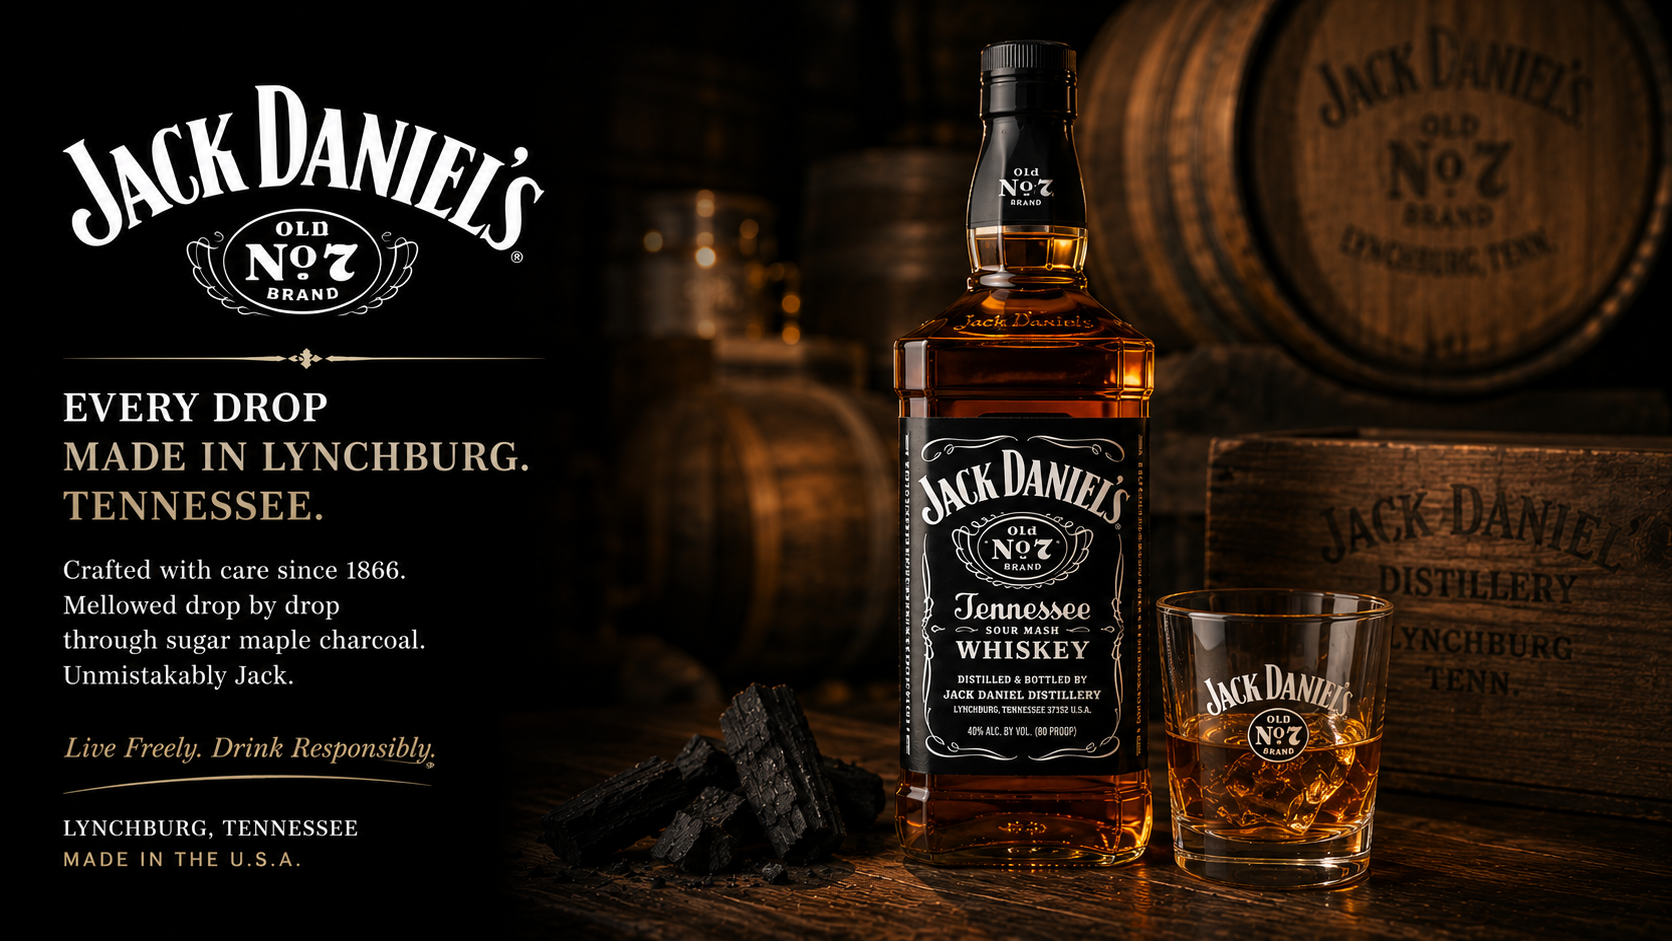
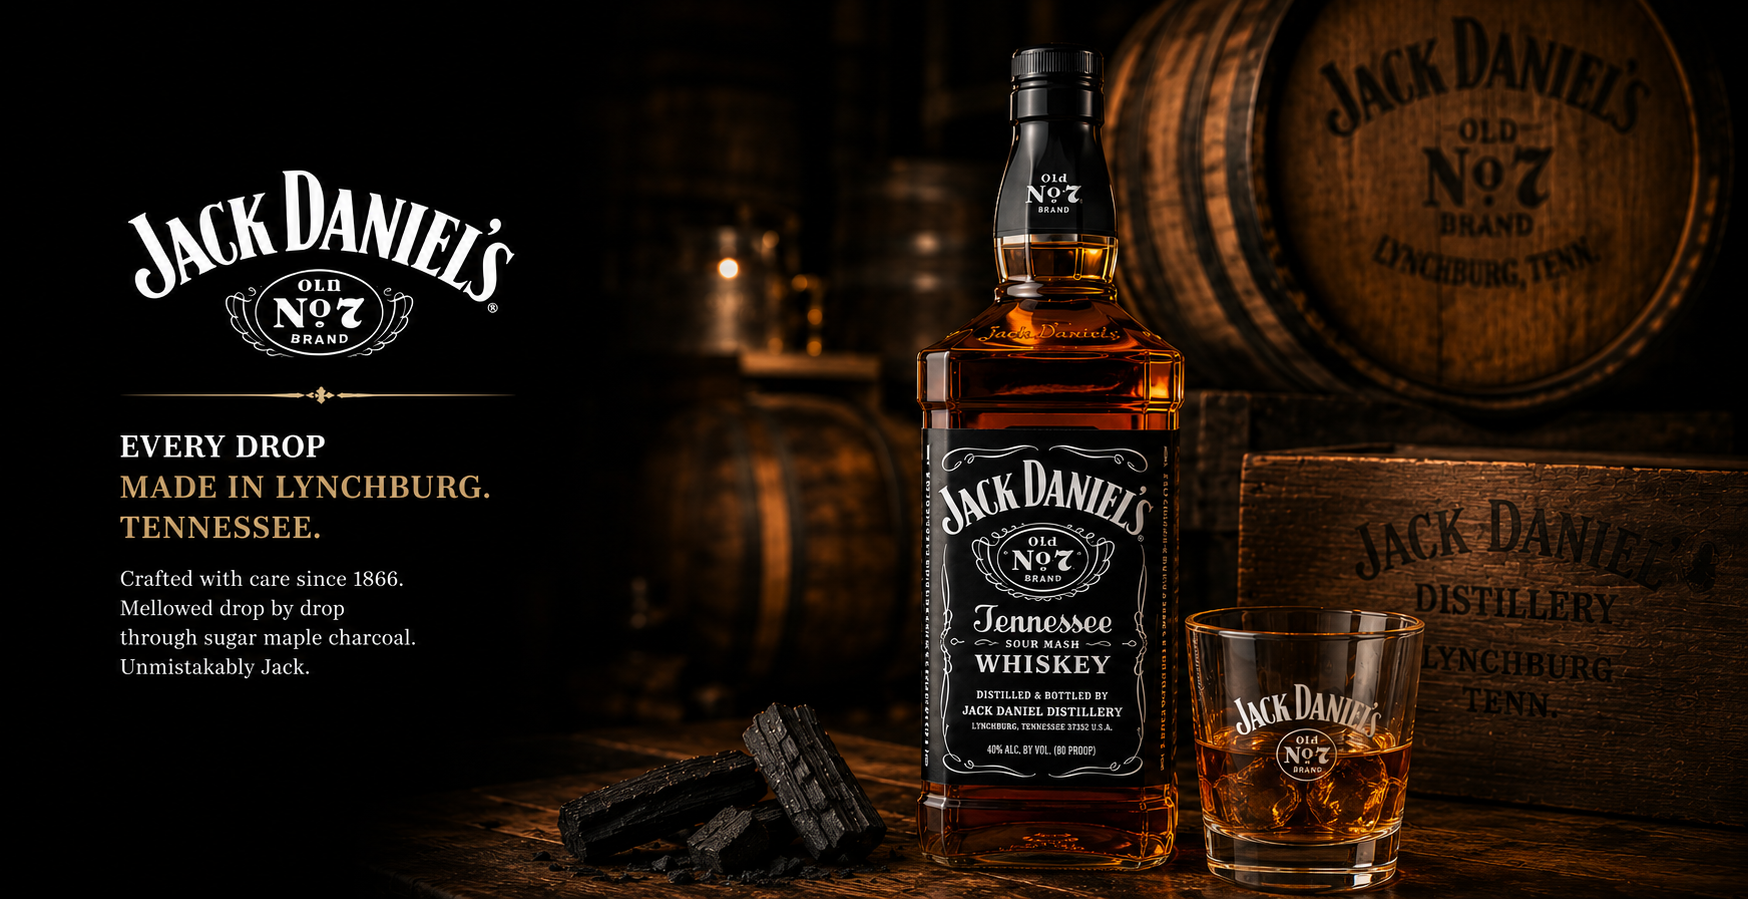
feat: initialize frontend application structure with core pages, components, data providers, and state management

diff --git a/src/pages/brand-pages/jameson.jsx b/src/pages/brand-pages/jameson.jsx
@@ -56,18 +56,20 @@ export default function Jameson({
 
   return (
     <div className="min-h-screen bg-background text-on-surface">
-      {/* ========================================================
-          BRAND BANNER
-      ======================================================== */}
+         {/* ========================================================
+    BRAND BANNER
+======================================================== */}
 
-      <section className="relative w-full overflow-hidden">
-        <img
-          src={jamesonBanner}
-          alt={BRAND_NAME}
-          className="w-full h-auto object-cover object-top block"
-        />
-      </section>
+        <section className="relative w-full min-h-[560px] md:min-h-[720px] overflow-hidden">
+          <img
+            src={jamesonBanner}
+            alt="Jameson"
+            className="absolute inset-0 w-full h-full object-cover object-top"
+          />
 
+          {/* Dark overlay */}
+          <div className="absolute inset-0 bg-black/30" />
+        </section>
       {/* ========================================================
           ABOUT THE BRAND
       ======================================================== */}

diff --git a/src/pages/brand-pages/jack-daniels.jsx b/src/pages/brand-pages/jack-daniels.jsx
@@ -86,17 +86,20 @@ export default function JackDaniels({
 
   return (
     <div className="min-h-screen bg-background text-on-surface">
-      {/* ========================================================
-          BRAND BANNER
-      ======================================================== */}
+        {/* ========================================================
+            BRAND BANNER
+        ======================================================== */}
 
-      <section className="relative w-full overflow-hidden">
-        <img
-          src={jackDanielsBanner}
-          alt={BRAND_NAME}
-          className="w-full h-auto object-cover object-top block"
-        />
-      </section>
+        <section className="relative w-full min-h-[560px] md:min-h-[720px] overflow-hidden">
+          <img
+            src={jackDanielsBanner}
+            alt="Jack Daniel's"
+            className="absolute inset-0 w-full h-full object-cover object-top"
+          />
+
+          {/* Dark overlay */}
+          <div className="absolute inset-0 bg-black/30" />
+        </section>
 
       {/* ========================================================
           ABOUT THE BRAND

diff --git a/src/pages/brand-pages/tread-softly.jsx b/src/pages/brand-pages/tread-softly.jsx
@@ -63,16 +63,19 @@ export default function TreadSoftly({
   return (
     <div className="min-h-screen bg-background text-on-surface">
       {/* ========================================================
-          BRAND BANNER
-      ======================================================== */}
+    BRAND BANNER
+======================================================== */}
 
-      <section className="relative w-full overflow-hidden">
-        <img
-          src={treadSoftlyBanner}
-          alt={BRAND_NAME}
-          className="w-full h-auto object-cover object-top block"
-        />
-      </section>
+          <section className="relative w-full min-h-[560px] md:min-h-[720px] overflow-hidden">
+            <img
+              src={treadSoftlyBanner}
+              alt="Tread Softly"
+              className="absolute inset-0 w-full h-full object-cover object-top"
+            />
+
+      {/* Dark overlay */}
+      <div className="absolute inset-0 bg-black/30" />
+    </section>
 
       {/* ========================================================
           ABOUT THE BRAND

diff --git a/src/pages/brand-pages/wolf-blass.jsx b/src/pages/brand-pages/wolf-blass.jsx
@@ -57,16 +57,19 @@ export default function WolfBlass({
   return (
     <div className="min-h-screen bg-background text-on-surface">
       {/* ========================================================
-          BRAND BANNER
-      ======================================================== */}
+    BRAND BANNER
+======================================================== */}
 
-      <section className="relative w-full overflow-hidden">
-        <img
-          src={wolfBlassBanner}
-          alt={BRAND_NAME}
-          className="w-full h-auto object-cover object-top block"
-        />
-      </section>
+        <section className="relative w-full min-h-[560px] md:min-h-[720px] overflow-hidden">
+          <img
+            src={wolfBlassBanner}
+            alt="Wolf Blass"
+            className="absolute inset-0 w-full h-full object-cover object-top"
+          />
+
+          {/* Dark overlay */}
+          <div className="absolute inset-0 bg-black/30" />
+        </section>
 
       {/* ========================================================
           ABOUT THE BRAND

diff --git a/src/pages/brand-pages/jim-beam.jsx b/src/pages/brand-pages/jim-beam.jsx
@@ -84,13 +84,20 @@ export default function JimBeam({
           BRAND BANNER
       ======================================================== */}
 
-      <section className="relative w-full overflow-hidden">
-        <img
-          src={jimBeamBanner}
-          alt={BRAND_NAME}
-          className="w-full h-auto object-cover object-top block"
-        />
-      </section>
+      {/* ========================================================
+    BRAND BANNER
+======================================================== */}
+
+             <section className="relative w-full min-h-[560px] md:min-h-[720px] overflow-hidden">
+                <img
+                  src={jimBeamBanner}
+                  alt="Jim Beam"
+                  className="absolute inset-0 w-full h-full object-cover object-top"
+                />
+
+                {/* Dark overlay */}
+                <div className="absolute inset-0 bg-black/30" />
+              </section>
 
       {/* ========================================================
           ABOUT THE BRAND

diff --git a/src/pages/brand-pages/cananidan-club.jsx b/src/pages/brand-pages/cananidan-club.jsx
@@ -56,16 +56,19 @@ export default function CanadianClub({
 
   return (
     <div className="min-h-screen bg-background text-on-surface">
-      {/* ========================================================
+            {/* ========================================================
           BRAND BANNER
       ======================================================== */}
 
-      <section className="relative w-full overflow-hidden">
+      <section className="relative w-full min-h-[560px] md:min-h-[720px] overflow-hidden">
         <img
           src={canadianClubBanner}
-          alt={BRAND_NAME}
-          className="w-full h-auto object-cover object-top block"
+          alt="Canadian Club"
+          className="absolute inset-0 w-full h-full object-cover object-top"
         />
+
+        {/* Dark overlay */}
+        <div className="absolute inset-0 bg-black/30" />
       </section>
 
       {/* ========================================================

diff --git a/src/pages/brand-pages/taylors.jsx b/src/pages/brand-pages/taylors.jsx
@@ -75,16 +75,19 @@ export default function Taylors({
 
   return (
     <div className="min-h-screen bg-background text-on-surface">
-      {/* ========================================================
+          {/* ========================================================
           BRAND BANNER
       ======================================================== */}
 
-      <section className="relative w-full overflow-hidden">
+      <section className="relative w-full min-h-[560px] md:min-h-[720px] overflow-hidden">
         <img
           src={taylorsBanner}
           alt={BRAND_NAME}
-          className="w-full h-auto object-cover object-top block"
+          className="absolute inset-0 w-full h-full object-cover object-top"
         />
+
+        {/* Dark overlay */}
+        <div className="absolute inset-0 bg-black/30" />
       </section>
 
       {/* ========================================================
